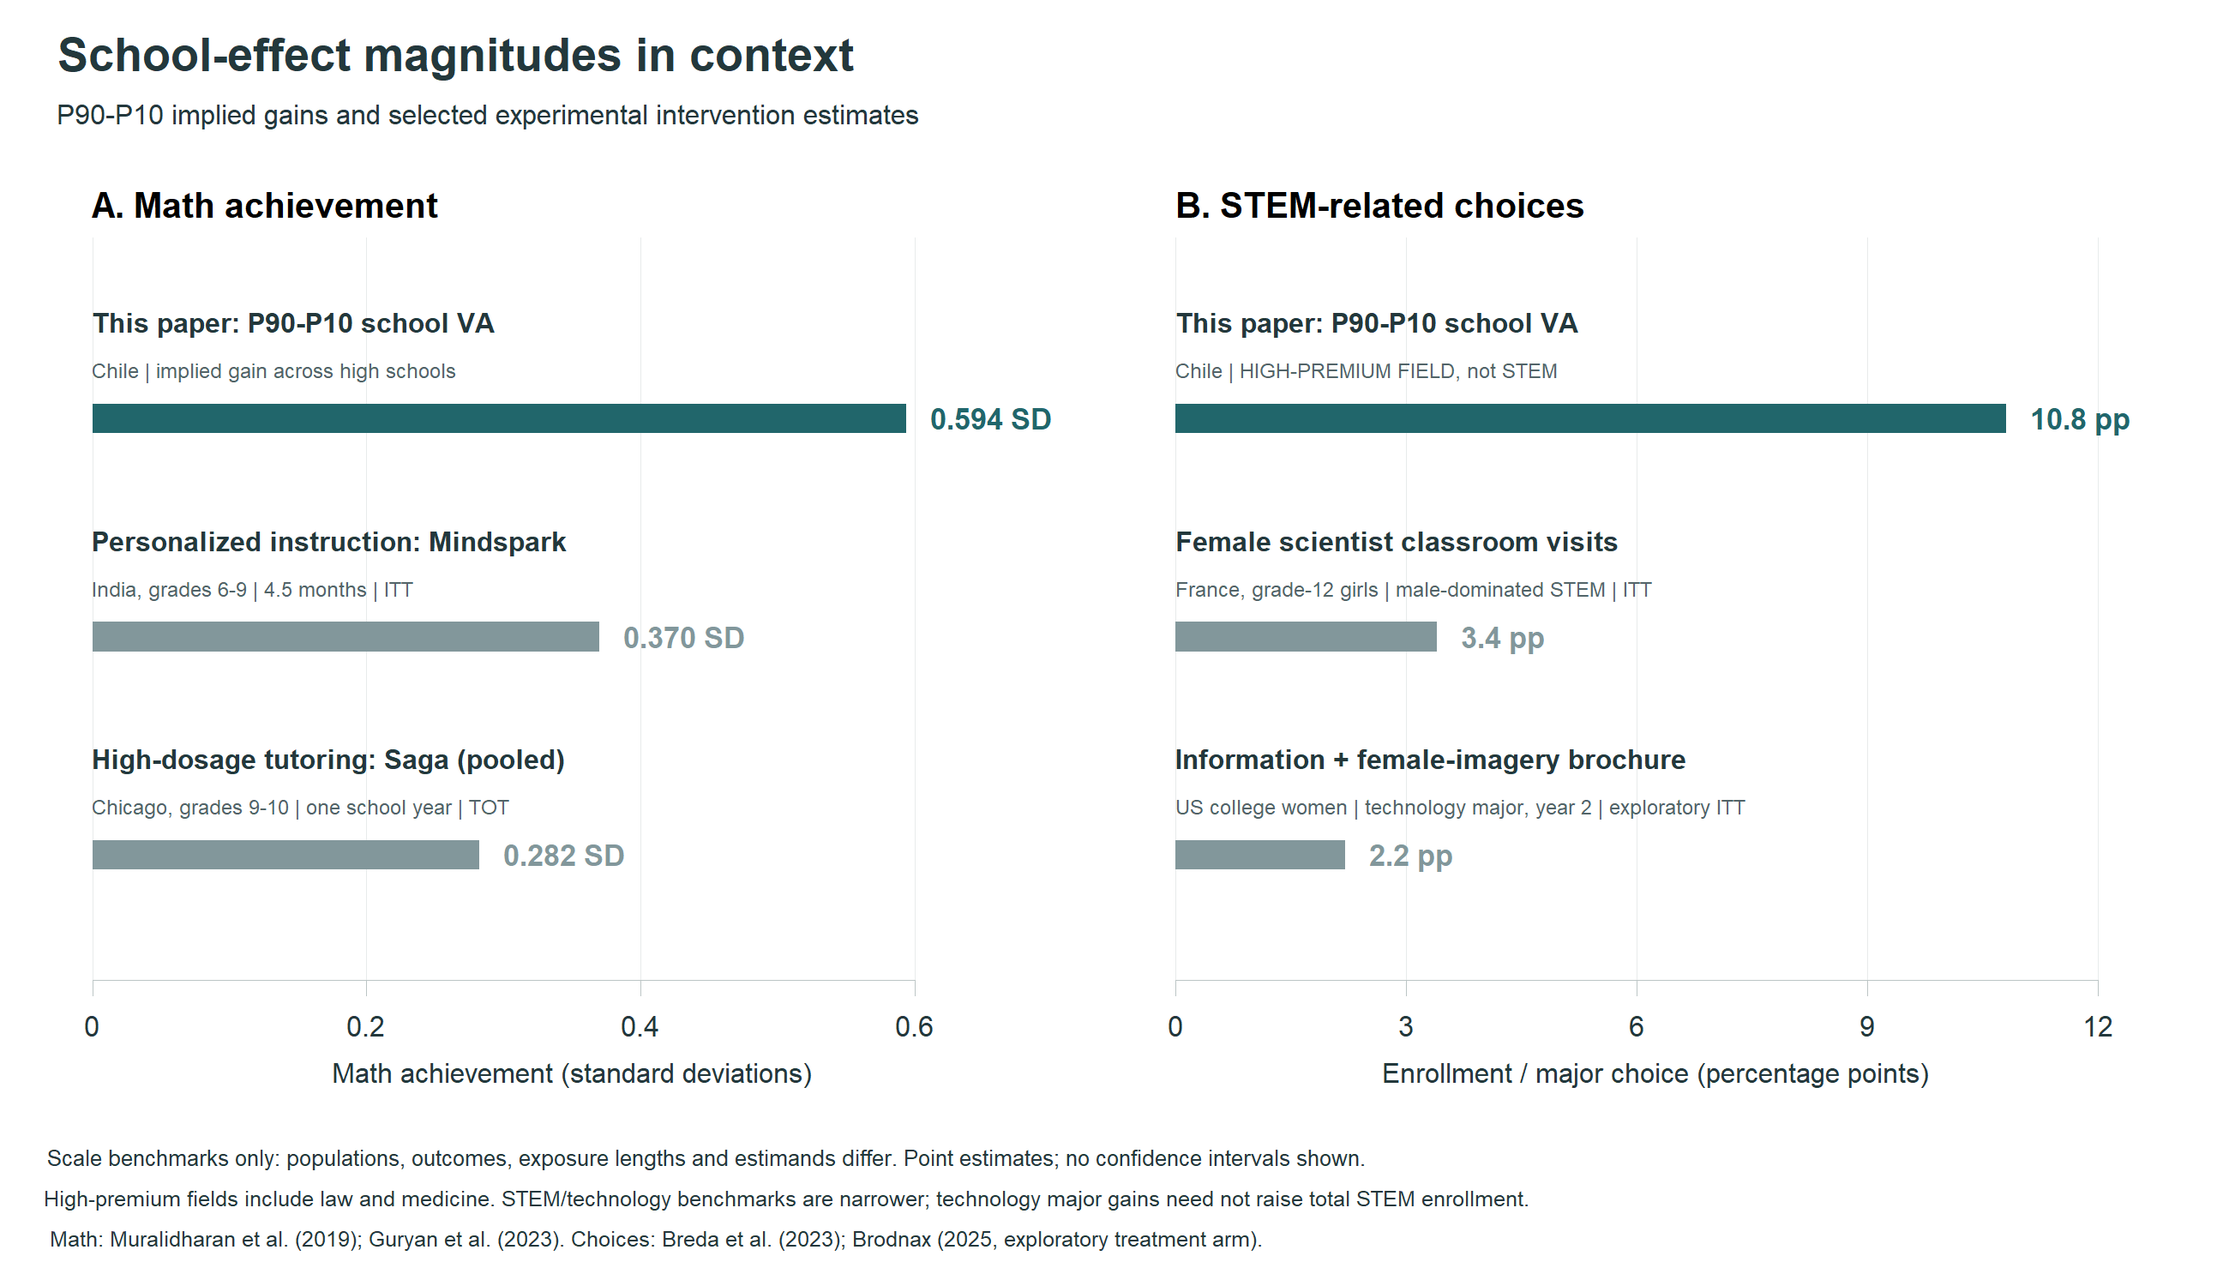
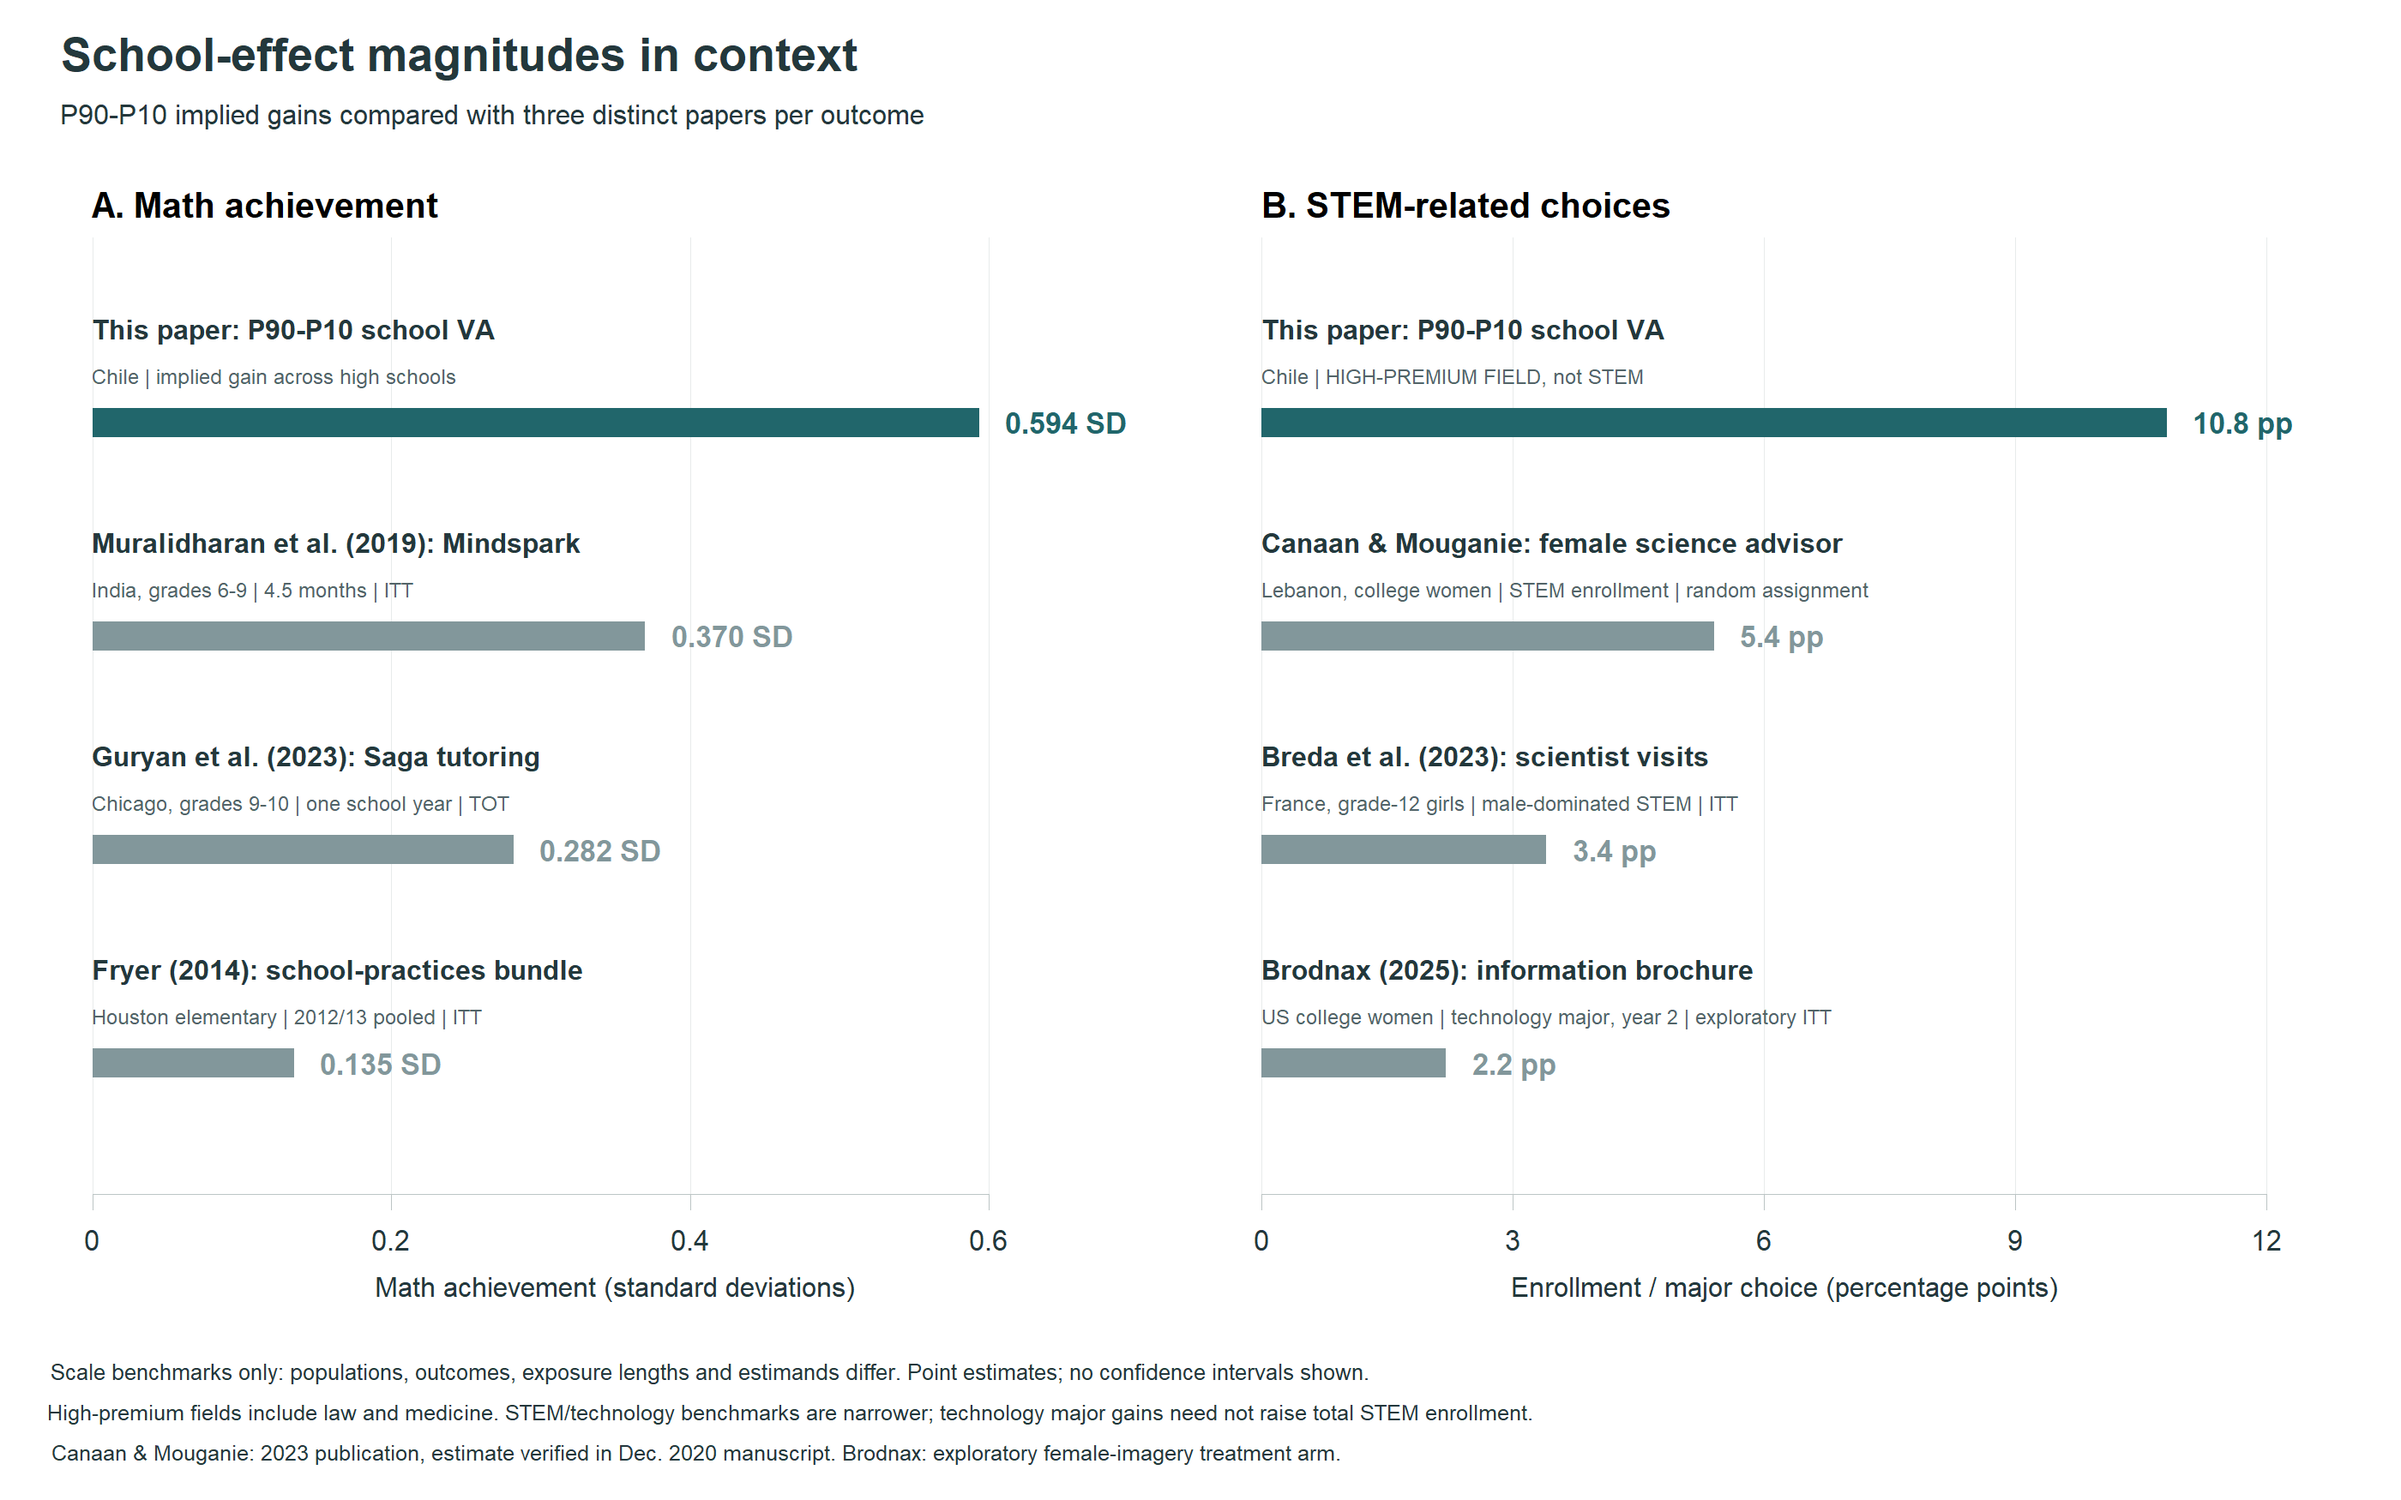
Expand intervention benchmarks to three papers per outcome [codex]

diff --git a/code/codex/nov_pres_analysis/BENCHMARK_SOURCES.md b/code/codex/nov_pres_analysis/BENCHMARK_SOURCES.md
@@ -12,6 +12,28 @@ an evaluated intervention or a direct STEM effect.
 
 ## Published benchmarks (verified November 4, 2026)
 
+Expanded to three distinct papers per panel (six external papers total).
+The selected math estimates range from 0.135 to 0.370 SD, versus 0.594 SD for
+the paper's implied school contrast. Selected STEM/technology-choice effects
+range from 2.2 to 5.4 pp, versus 10.8 pp for high-premium-field enrollment.
+These comparisons describe magnitudes only, not relative effectiveness.
+
+- Fryer (2014), *Injecting Charter School Best Practices into Traditional Public
+  Schools*: Table III column 3, experimental Houston elementary sample,
+  pooled 2012/2013 ITT math effect 0.135 SD (SE 0.051). This is the pooled
+  observation-level offer estimate, not the abstract's annual participation
+  summary and not a three-year cumulative gain.
+  https://fryer.scholars.harvard.edu/sites/g/files/omnuum5986/files/fryer/files/2014_injecting_charter_school_best_practices_into_traditional_public_schools.pdf
+- Canaan and Mouganie (2023), *The Impact of Advisor Gender on Female Students'
+  STEM Enrollment and Persistence*: verified in December 17, 2020 manuscript,
+  Table 5 column 2. Assignment to a female rather than male science advisor
+  increases female students' STEM enrollment after freshman year by 5.4 pp
+  (SE 2.4 pp) at the American University of Beirut. This is the effect on women,
+  not the 8.6 pp reduction in the gender gap. Publication identified by IZA:
+  Journal of Human Resources 58(2), 593-632. The graph flags the manuscript
+  version rather than claiming a verified final-publication table value.
+  https://swlb1.aeaweb.org/conference/2021/preliminary/paper/BkAyA2Tn
+
 - Muralidharan, Singh and Ganimian (2019), *Disrupting Education? Experimental
   Evidence on Technology-Aided Instruction in India*: Table 2, math ITT 0.37 SD,
   4.5-month intervention in Delhi, grades 6-9.
